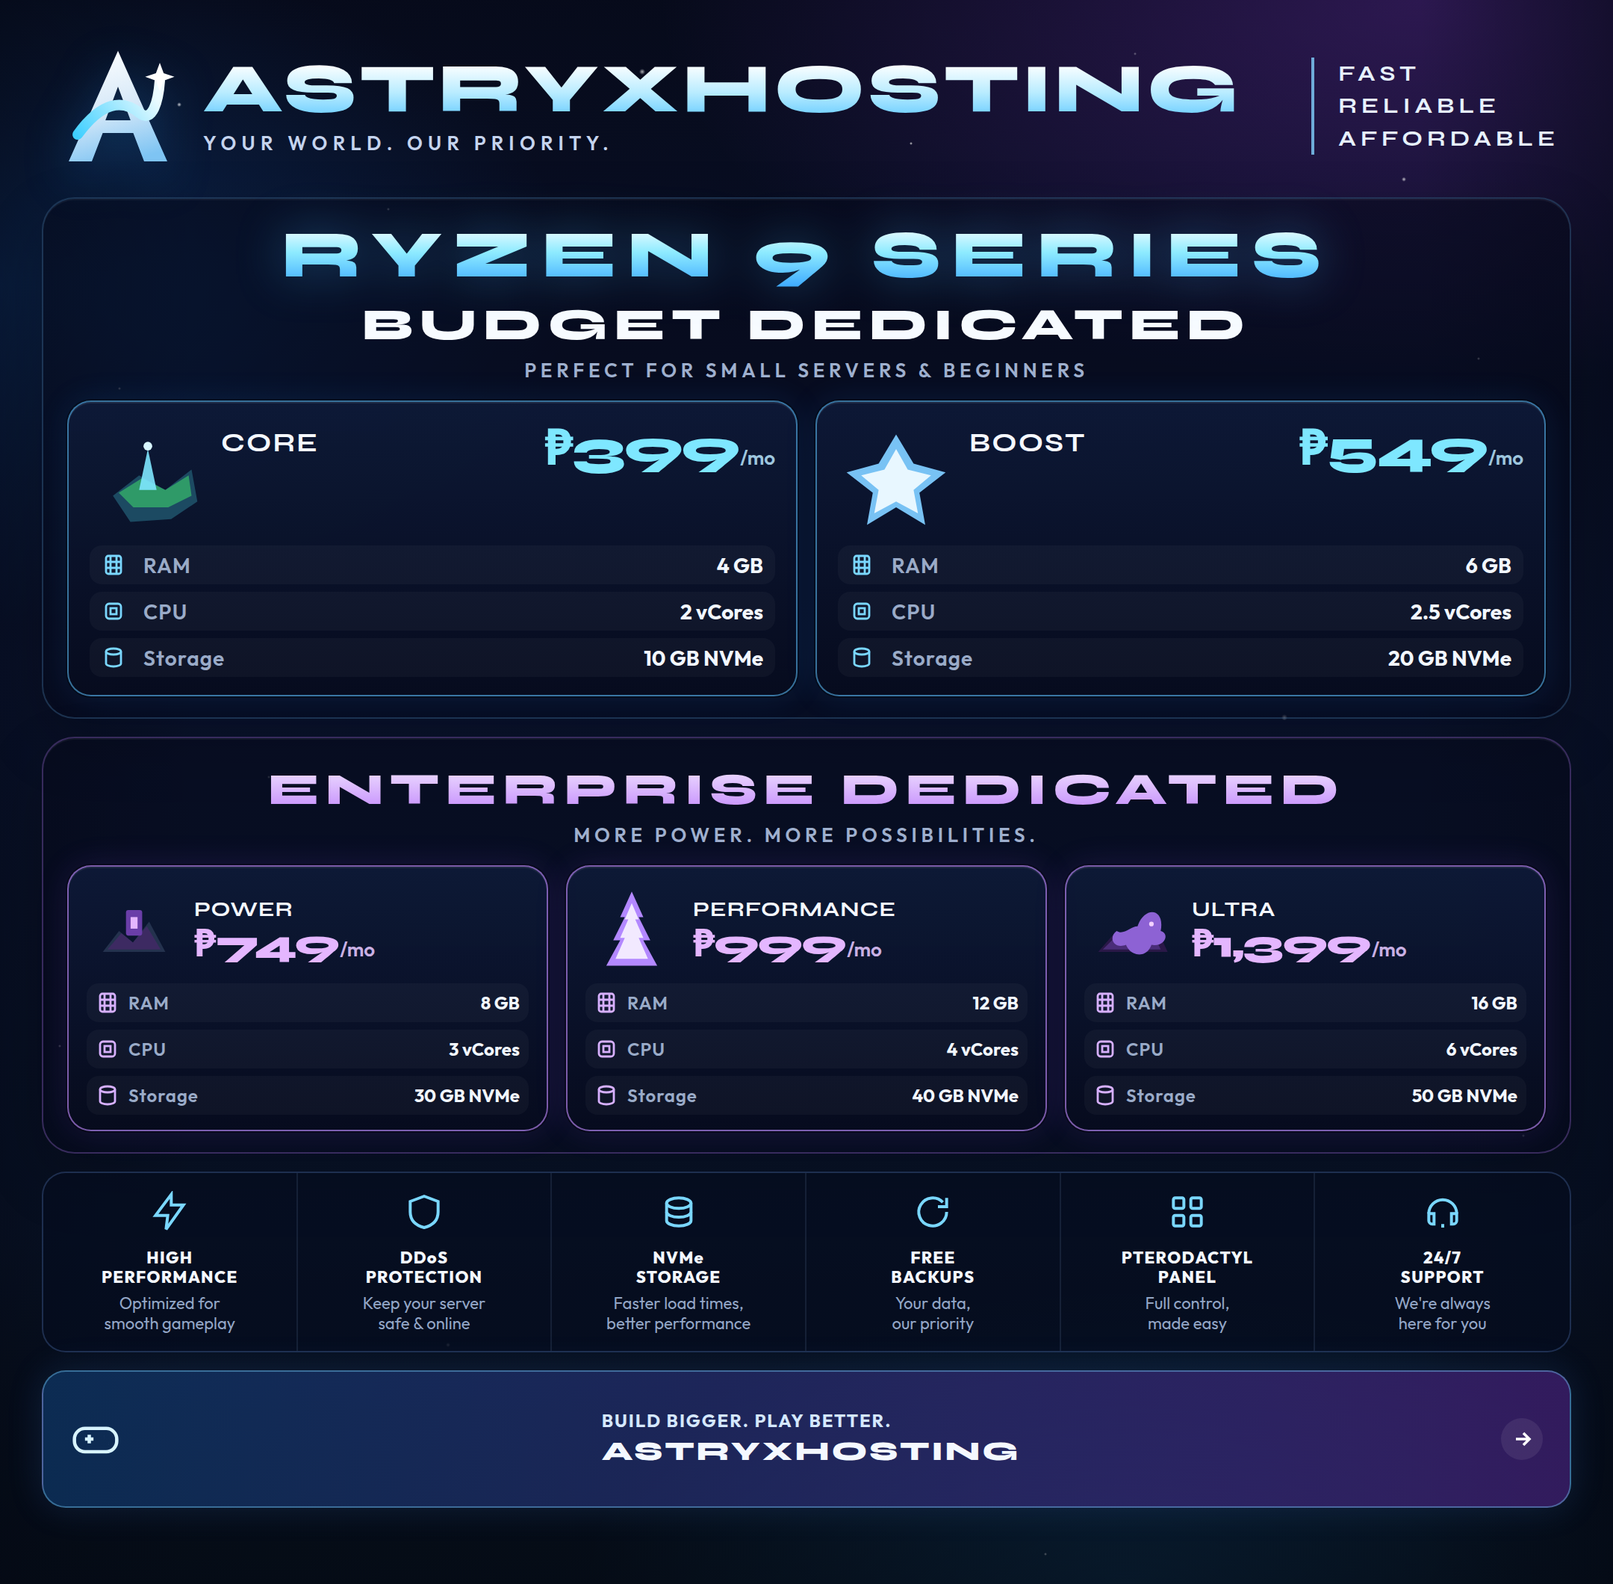
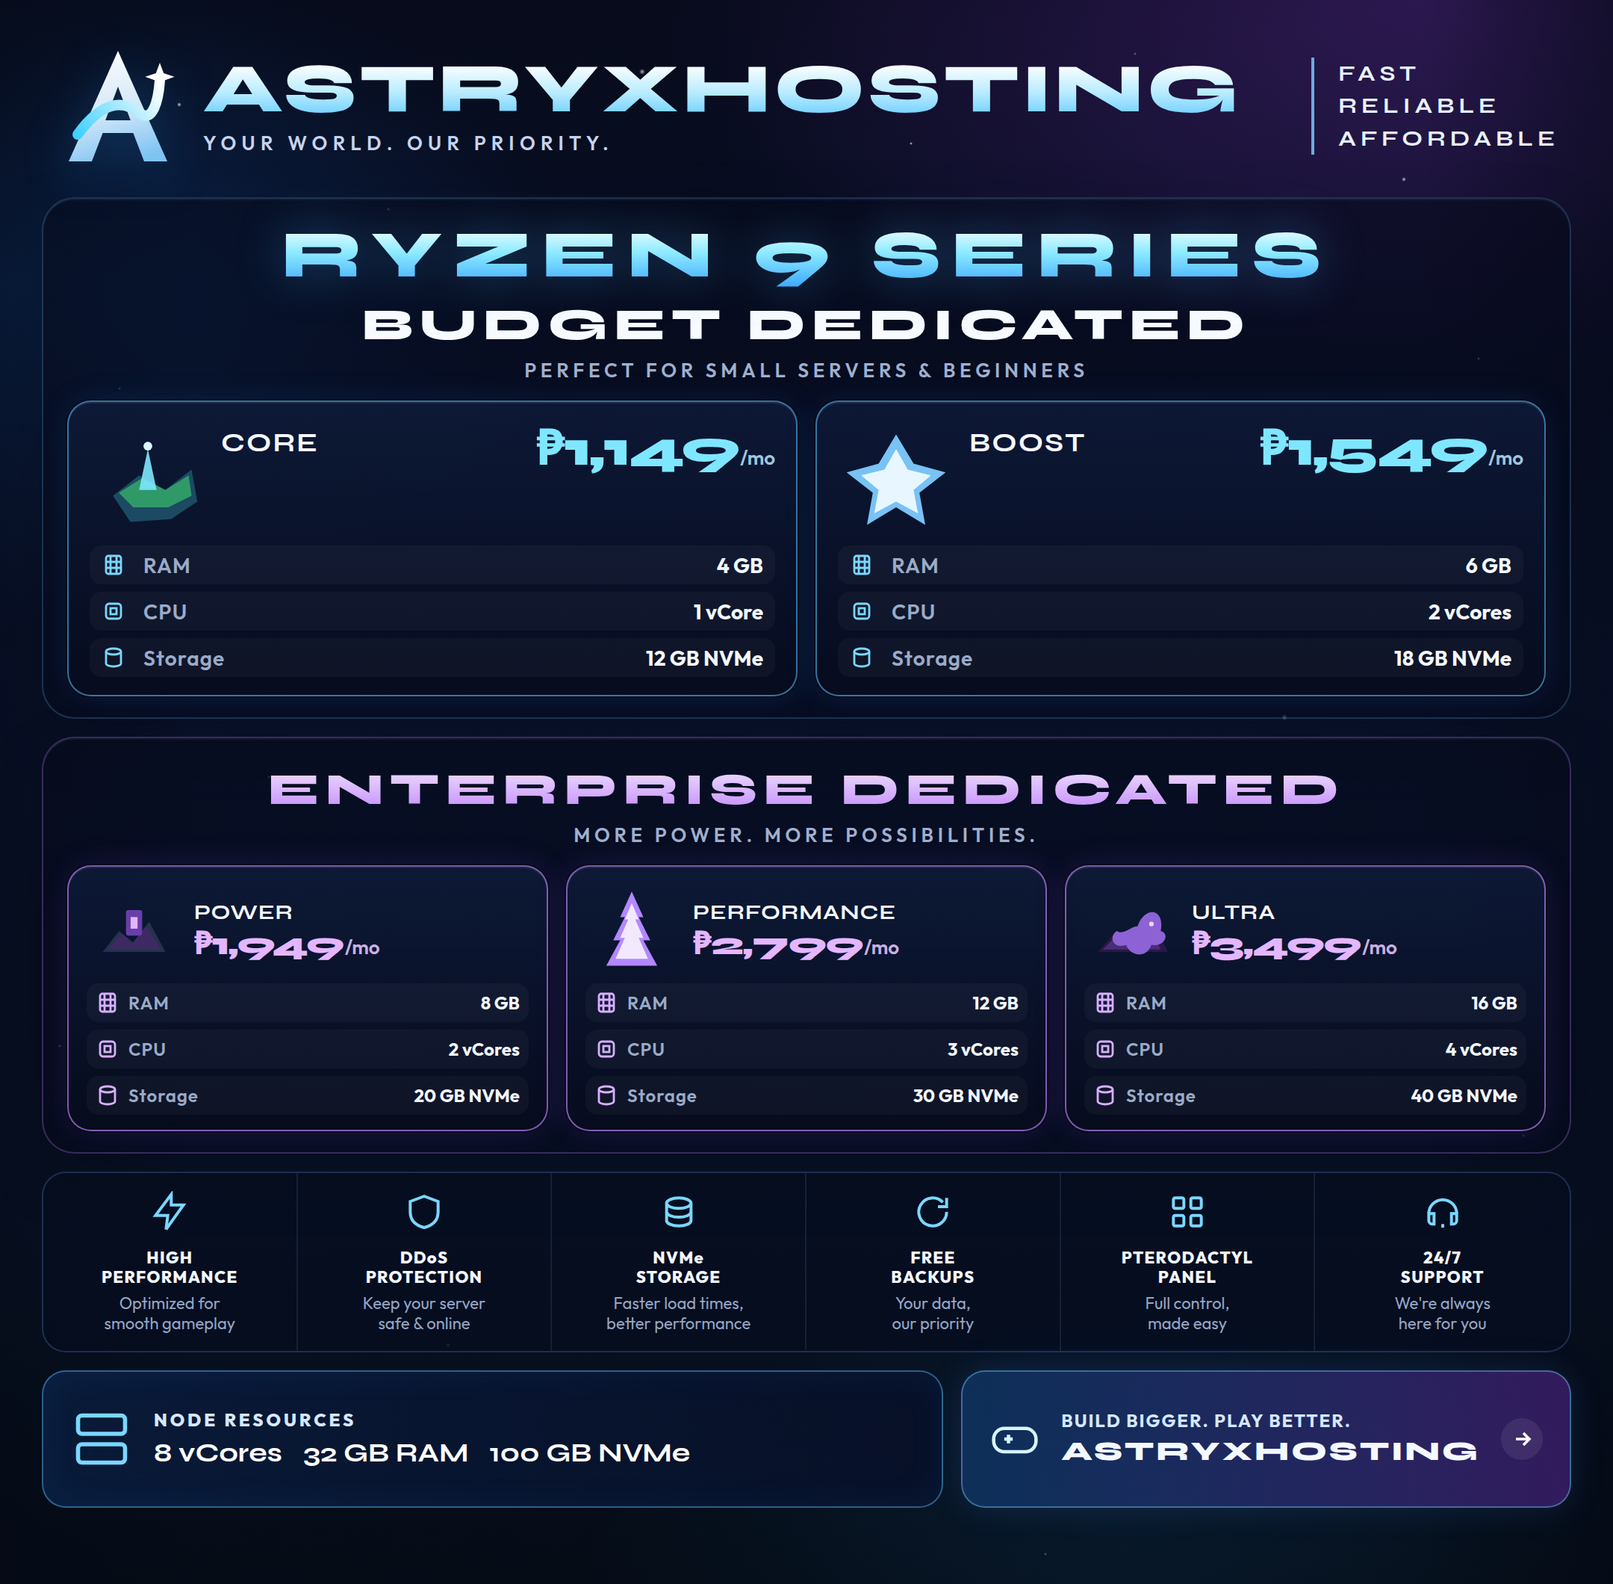
Reprice Xeon and Ryzen plans so a full node pays a salary.
Specs now fit each machine, and monthly prices cover the VDS cost with profit left over once most of the RAM is sold.

diff --git a/posters/ryzen.html b/posters/ryzen.html
@@ -63,12 +63,12 @@
             </svg>
             <div class="card-top">
               <div class="plan-name">CORE</div>
-              <div class="price">₱399<span class="per">/mo</span></div>
+              <div class="price">₱1,149<span class="per">/mo</span></div>
             </div>
             <div class="specs">
               <div class="spec"><svg viewBox="0 0 16 16" fill="none" stroke="#7ad7ff" stroke-width="1.4"><rect x="3" y="2" width="10" height="12" rx="1.5"/><path d="M6 2v12M10 2v12M3 6h10M3 10h10"/></svg><span class="k">RAM</span><span class="v">4 GB</span></div>
-              <div class="spec"><svg viewBox="0 0 16 16" fill="none" stroke="#7ad7ff" stroke-width="1.4"><rect x="3" y="3" width="10" height="10" rx="2"/><rect x="6" y="6" width="4" height="4"/></svg><span class="k">CPU</span><span class="v">2 vCores</span></div>
-              <div class="spec"><svg viewBox="0 0 16 16" fill="none" stroke="#7ad7ff" stroke-width="1.4"><ellipse cx="8" cy="4" rx="5" ry="2"/><path d="M3 4v8c0 1.1 2.2 2 5 2s5-.9 5-2V4"/></svg><span class="k">Storage</span><span class="v">10 GB NVMe</span></div>
+              <div class="spec"><svg viewBox="0 0 16 16" fill="none" stroke="#7ad7ff" stroke-width="1.4"><rect x="3" y="3" width="10" height="10" rx="2"/><rect x="6" y="6" width="4" height="4"/></svg><span class="k">CPU</span><span class="v">1 vCore</span></div>
+              <div class="spec"><svg viewBox="0 0 16 16" fill="none" stroke="#7ad7ff" stroke-width="1.4"><ellipse cx="8" cy="4" rx="5" ry="2"/><path d="M3 4v8c0 1.1 2.2 2 5 2s5-.9 5-2V4"/></svg><span class="k">Storage</span><span class="v">12 GB NVMe</span></div>
             </div>
           </article>
           <article class="card">
@@ -78,12 +78,12 @@
             </svg>
             <div class="card-top">
               <div class="plan-name">BOOST</div>
-              <div class="price">₱549<span class="per">/mo</span></div>
+              <div class="price">₱1,549<span class="per">/mo</span></div>
             </div>
             <div class="specs">
               <div class="spec"><svg viewBox="0 0 16 16" fill="none" stroke="#7ad7ff" stroke-width="1.4"><rect x="3" y="2" width="10" height="12" rx="1.5"/><path d="M6 2v12M10 2v12M3 6h10M3 10h10"/></svg><span class="k">RAM</span><span class="v">6 GB</span></div>
-              <div class="spec"><svg viewBox="0 0 16 16" fill="none" stroke="#7ad7ff" stroke-width="1.4"><rect x="3" y="3" width="10" height="10" rx="2"/><rect x="6" y="6" width="4" height="4"/></svg><span class="k">CPU</span><span class="v">2.5 vCores</span></div>
-              <div class="spec"><svg viewBox="0 0 16 16" fill="none" stroke="#7ad7ff" stroke-width="1.4"><ellipse cx="8" cy="4" rx="5" ry="2"/><path d="M3 4v8c0 1.1 2.2 2 5 2s5-.9 5-2V4"/></svg><span class="k">Storage</span><span class="v">20 GB NVMe</span></div>
+              <div class="spec"><svg viewBox="0 0 16 16" fill="none" stroke="#7ad7ff" stroke-width="1.4"><rect x="3" y="3" width="10" height="10" rx="2"/><rect x="6" y="6" width="4" height="4"/></svg><span class="k">CPU</span><span class="v">2 vCores</span></div>
+              <div class="spec"><svg viewBox="0 0 16 16" fill="none" stroke="#7ad7ff" stroke-width="1.4"><ellipse cx="8" cy="4" rx="5" ry="2"/><path d="M3 4v8c0 1.1 2.2 2 5 2s5-.9 5-2V4"/></svg><span class="k">Storage</span><span class="v">18 GB NVMe</span></div>
             </div>
           </article>
         </div>
@@ -102,12 +102,12 @@
             </svg>
             <div class="card-top">
               <div class="plan-name">POWER</div>
-              <div class="price">₱749<span class="per">/mo</span></div>
+              <div class="price">₱1,949<span class="per">/mo</span></div>
             </div>
             <div class="specs">
               <div class="spec"><svg viewBox="0 0 16 16" fill="none" stroke="#d7b0ff" stroke-width="1.4"><rect x="3" y="2" width="10" height="12" rx="1.5"/><path d="M6 2v12M10 2v12M3 6h10M3 10h10"/></svg><span class="k">RAM</span><span class="v">8 GB</span></div>
-              <div class="spec"><svg viewBox="0 0 16 16" fill="none" stroke="#d7b0ff" stroke-width="1.4"><rect x="3" y="3" width="10" height="10" rx="2"/><rect x="6" y="6" width="4" height="4"/></svg><span class="k">CPU</span><span class="v">3 vCores</span></div>
-              <div class="spec"><svg viewBox="0 0 16 16" fill="none" stroke="#d7b0ff" stroke-width="1.4"><ellipse cx="8" cy="4" rx="5" ry="2"/><path d="M3 4v8c0 1.1 2.2 2 5 2s5-.9 5-2V4"/></svg><span class="k">Storage</span><span class="v">30 GB NVMe</span></div>
+              <div class="spec"><svg viewBox="0 0 16 16" fill="none" stroke="#d7b0ff" stroke-width="1.4"><rect x="3" y="3" width="10" height="10" rx="2"/><rect x="6" y="6" width="4" height="4"/></svg><span class="k">CPU</span><span class="v">2 vCores</span></div>
+              <div class="spec"><svg viewBox="0 0 16 16" fill="none" stroke="#d7b0ff" stroke-width="1.4"><ellipse cx="8" cy="4" rx="5" ry="2"/><path d="M3 4v8c0 1.1 2.2 2 5 2s5-.9 5-2V4"/></svg><span class="k">Storage</span><span class="v">20 GB NVMe</span></div>
             </div>
           </article>
           <article class="card purple">
@@ -117,12 +117,12 @@
             </svg>
             <div class="card-top">
               <div class="plan-name">PERFORMANCE</div>
-              <div class="price">₱999<span class="per">/mo</span></div>
+              <div class="price">₱2,799<span class="per">/mo</span></div>
             </div>
             <div class="specs">
               <div class="spec"><svg viewBox="0 0 16 16" fill="none" stroke="#d7b0ff" stroke-width="1.4"><rect x="3" y="2" width="10" height="12" rx="1.5"/><path d="M6 2v12M10 2v12M3 6h10M3 10h10"/></svg><span class="k">RAM</span><span class="v">12 GB</span></div>
-              <div class="spec"><svg viewBox="0 0 16 16" fill="none" stroke="#d7b0ff" stroke-width="1.4"><rect x="3" y="3" width="10" height="10" rx="2"/><rect x="6" y="6" width="4" height="4"/></svg><span class="k">CPU</span><span class="v">4 vCores</span></div>
-              <div class="spec"><svg viewBox="0 0 16 16" fill="none" stroke="#d7b0ff" stroke-width="1.4"><ellipse cx="8" cy="4" rx="5" ry="2"/><path d="M3 4v8c0 1.1 2.2 2 5 2s5-.9 5-2V4"/></svg><span class="k">Storage</span><span class="v">40 GB NVMe</span></div>
+              <div class="spec"><svg viewBox="0 0 16 16" fill="none" stroke="#d7b0ff" stroke-width="1.4"><rect x="3" y="3" width="10" height="10" rx="2"/><rect x="6" y="6" width="4" height="4"/></svg><span class="k">CPU</span><span class="v">3 vCores</span></div>
+              <div class="spec"><svg viewBox="0 0 16 16" fill="none" stroke="#d7b0ff" stroke-width="1.4"><ellipse cx="8" cy="4" rx="5" ry="2"/><path d="M3 4v8c0 1.1 2.2 2 5 2s5-.9 5-2V4"/></svg><span class="k">Storage</span><span class="v">30 GB NVMe</span></div>
             </div>
           </article>
           <article class="card purple">
@@ -134,12 +134,12 @@
             </svg>
             <div class="card-top">
               <div class="plan-name">ULTRA</div>
-              <div class="price">₱1,399<span class="per">/mo</span></div>
+              <div class="price">₱3,499<span class="per">/mo</span></div>
             </div>
             <div class="specs">
               <div class="spec"><svg viewBox="0 0 16 16" fill="none" stroke="#d7b0ff" stroke-width="1.4"><rect x="3" y="2" width="10" height="12" rx="1.5"/><path d="M6 2v12M10 2v12M3 6h10M3 10h10"/></svg><span class="k">RAM</span><span class="v">16 GB</span></div>
-              <div class="spec"><svg viewBox="0 0 16 16" fill="none" stroke="#d7b0ff" stroke-width="1.4"><rect x="3" y="3" width="10" height="10" rx="2"/><rect x="6" y="6" width="4" height="4"/></svg><span class="k">CPU</span><span class="v">6 vCores</span></div>
-              <div class="spec"><svg viewBox="0 0 16 16" fill="none" stroke="#d7b0ff" stroke-width="1.4"><ellipse cx="8" cy="4" rx="5" ry="2"/><path d="M3 4v8c0 1.1 2.2 2 5 2s5-.9 5-2V4"/></svg><span class="k">Storage</span><span class="v">50 GB NVMe</span></div>
+              <div class="spec"><svg viewBox="0 0 16 16" fill="none" stroke="#d7b0ff" stroke-width="1.4"><rect x="3" y="3" width="10" height="10" rx="2"/><rect x="6" y="6" width="4" height="4"/></svg><span class="k">CPU</span><span class="v">4 vCores</span></div>
+              <div class="spec"><svg viewBox="0 0 16 16" fill="none" stroke="#d7b0ff" stroke-width="1.4"><ellipse cx="8" cy="4" rx="5" ry="2"/><path d="M3 4v8c0 1.1 2.2 2 5 2s5-.9 5-2V4"/></svg><span class="k">Storage</span><span class="v">40 GB NVMe</span></div>
             </div>
           </article>
         </div>
@@ -178,7 +178,14 @@
         </div>
       </section>
 
-      <footer class="footer solo">
+      <footer class="footer">
+        <div class="node">
+          <svg class="server" viewBox="0 0 24 24" fill="none" stroke="currentColor" stroke-width="1.6"><rect x="3" y="3" width="18" height="7" rx="1.5"/><rect x="3" y="14" width="18" height="7" rx="1.5"/><path d="M7 6.5h.01M7 17.5h.01"/></svg>
+          <div>
+            <div class="label">NODE RESOURCES</div>
+            <div class="stats"><span>8 vCores</span><span>32 GB RAM</span><span>100 GB NVMe</span></div>
+          </div>
+        </div>
         <div class="cta">
           <svg class="pad" viewBox="0 0 24 24" fill="none" stroke="currentColor" stroke-width="1.6"><rect x="2" y="7" width="20" height="11" rx="5"/><path d="M7 12h4M9 10v4M16 11h.01M18 14h.01"/></svg>
           <div class="copy">

diff --git a/posters/xeon.html b/posters/xeon.html
@@ -75,12 +75,12 @@
             </svg>
             <div class="card-top">
               <div class="plan-name">PIG<br />PLAN</div>
-              <div class="price">₱249<span class="per">/mo</span></div>
+              <div class="price">₱899<span class="per">/mo</span></div>
             </div>
             <div class="specs">
               <div class="spec"><svg viewBox="0 0 16 16" fill="none" stroke="#7ad7ff" stroke-width="1.4"><rect x="3" y="2" width="10" height="12" rx="1.5"/><path d="M6 2v12M10 2v12M3 6h10M3 10h10"/></svg><span class="k">RAM</span><span class="v">4 GB</span></div>
-              <div class="spec"><svg viewBox="0 0 16 16" fill="none" stroke="#7ad7ff" stroke-width="1.4"><rect x="3" y="3" width="10" height="10" rx="2"/><rect x="6" y="6" width="4" height="4"/></svg><span class="k">CPU</span><span class="v">2 vCores</span></div>
-              <div class="spec"><svg viewBox="0 0 16 16" fill="none" stroke="#7ad7ff" stroke-width="1.4"><ellipse cx="8" cy="4" rx="5" ry="2"/><path d="M3 4v8c0 1.1 2.2 2 5 2s5-.9 5-2V4"/></svg><span class="k">Storage</span><span class="v">10 GB NVMe</span></div>
+              <div class="spec"><svg viewBox="0 0 16 16" fill="none" stroke="#7ad7ff" stroke-width="1.4"><rect x="3" y="3" width="10" height="10" rx="2"/><rect x="6" y="6" width="4" height="4"/></svg><span class="k">CPU</span><span class="v">1 vCore</span></div>
+              <div class="spec"><svg viewBox="0 0 16 16" fill="none" stroke="#7ad7ff" stroke-width="1.4"><ellipse cx="8" cy="4" rx="5" ry="2"/><path d="M3 4v8c0 1.1 2.2 2 5 2s5-.9 5-2V4"/></svg><span class="k">Storage</span><span class="v">15 GB NVMe</span></div>
             </div>
           </article>
           <article class="card">
@@ -98,12 +98,12 @@
             </svg>
             <div class="card-top">
               <div class="plan-name">WOLF<br />PLAN</div>
-              <div class="price">₱349<span class="per">/mo</span></div>
+              <div class="price">₱1,249<span class="per">/mo</span></div>
             </div>
             <div class="specs">
               <div class="spec"><svg viewBox="0 0 16 16" fill="none" stroke="#7ad7ff" stroke-width="1.4"><rect x="3" y="2" width="10" height="12" rx="1.5"/><path d="M6 2v12M10 2v12M3 6h10M3 10h10"/></svg><span class="k">RAM</span><span class="v">6 GB</span></div>
-              <div class="spec"><svg viewBox="0 0 16 16" fill="none" stroke="#7ad7ff" stroke-width="1.4"><rect x="3" y="3" width="10" height="10" rx="2"/><rect x="6" y="6" width="4" height="4"/></svg><span class="k">CPU</span><span class="v">2.5 vCores</span></div>
-              <div class="spec"><svg viewBox="0 0 16 16" fill="none" stroke="#7ad7ff" stroke-width="1.4"><ellipse cx="8" cy="4" rx="5" ry="2"/><path d="M3 4v8c0 1.1 2.2 2 5 2s5-.9 5-2V4"/></svg><span class="k">Storage</span><span class="v">20 GB NVMe</span></div>
+              <div class="spec"><svg viewBox="0 0 16 16" fill="none" stroke="#7ad7ff" stroke-width="1.4"><rect x="3" y="3" width="10" height="10" rx="2"/><rect x="6" y="6" width="4" height="4"/></svg><span class="k">CPU</span><span class="v">2 vCores</span></div>
+              <div class="spec"><svg viewBox="0 0 16 16" fill="none" stroke="#7ad7ff" stroke-width="1.4"><ellipse cx="8" cy="4" rx="5" ry="2"/><path d="M3 4v8c0 1.1 2.2 2 5 2s5-.9 5-2V4"/></svg><span class="k">Storage</span><span class="v">25 GB NVMe</span></div>
             </div>
           </article>
         </div>
@@ -124,11 +124,11 @@
             </svg>
             <div class="card-top">
               <div class="plan-name">ZOMBIE<br />PLAN</div>
-              <div class="price">₱549<span class="per">/mo</span></div>
+              <div class="price">₱1,549<span class="per">/mo</span></div>
             </div>
             <div class="specs">
               <div class="spec"><svg viewBox="0 0 16 16" fill="none" stroke="#d7b0ff" stroke-width="1.4"><rect x="3" y="2" width="10" height="12" rx="1.5"/><path d="M6 2v12M10 2v12M3 6h10M3 10h10"/></svg><span class="k">RAM</span><span class="v">8 GB</span></div>
-              <div class="spec"><svg viewBox="0 0 16 16" fill="none" stroke="#d7b0ff" stroke-width="1.4"><rect x="3" y="3" width="10" height="10" rx="2"/><rect x="6" y="6" width="4" height="4"/></svg><span class="k">CPU</span><span class="v">3 vCores</span></div>
+              <div class="spec"><svg viewBox="0 0 16 16" fill="none" stroke="#d7b0ff" stroke-width="1.4"><rect x="3" y="3" width="10" height="10" rx="2"/><rect x="6" y="6" width="4" height="4"/></svg><span class="k">CPU</span><span class="v">2 vCores</span></div>
               <div class="spec"><svg viewBox="0 0 16 16" fill="none" stroke="#d7b0ff" stroke-width="1.4"><ellipse cx="8" cy="4" rx="5" ry="2"/><path d="M3 4v8c0 1.1 2.2 2 5 2s5-.9 5-2V4"/></svg><span class="k">Storage</span><span class="v">30 GB NVMe</span></div>
             </div>
           </article>
@@ -143,12 +143,12 @@
             </svg>
             <div class="card-top">
               <div class="plan-name">SKELETON<br />PLAN</div>
-              <div class="price">₱799<span class="per">/mo</span></div>
+              <div class="price">₱2,249<span class="per">/mo</span></div>
             </div>
             <div class="specs">
               <div class="spec"><svg viewBox="0 0 16 16" fill="none" stroke="#d7b0ff" stroke-width="1.4"><rect x="3" y="2" width="10" height="12" rx="1.5"/><path d="M6 2v12M10 2v12M3 6h10M3 10h10"/></svg><span class="k">RAM</span><span class="v">12 GB</span></div>
-              <div class="spec"><svg viewBox="0 0 16 16" fill="none" stroke="#d7b0ff" stroke-width="1.4"><rect x="3" y="3" width="10" height="10" rx="2"/><rect x="6" y="6" width="4" height="4"/></svg><span class="k">CPU</span><span class="v">4 vCores</span></div>
-              <div class="spec"><svg viewBox="0 0 16 16" fill="none" stroke="#d7b0ff" stroke-width="1.4"><ellipse cx="8" cy="4" rx="5" ry="2"/><path d="M3 4v8c0 1.1 2.2 2 5 2s5-.9 5-2V4"/></svg><span class="k">Storage</span><span class="v">40 GB NVMe</span></div>
+              <div class="spec"><svg viewBox="0 0 16 16" fill="none" stroke="#d7b0ff" stroke-width="1.4"><rect x="3" y="3" width="10" height="10" rx="2"/><rect x="6" y="6" width="4" height="4"/></svg><span class="k">CPU</span><span class="v">3 vCores</span></div>
+              <div class="spec"><svg viewBox="0 0 16 16" fill="none" stroke="#d7b0ff" stroke-width="1.4"><ellipse cx="8" cy="4" rx="5" ry="2"/><path d="M3 4v8c0 1.1 2.2 2 5 2s5-.9 5-2V4"/></svg><span class="k">Storage</span><span class="v">45 GB NVMe</span></div>
             </div>
           </article>
           <article class="card purple">
@@ -161,12 +161,12 @@
             </svg>
             <div class="card-top">
               <div class="plan-name">ENDER<br />DRAGON PLAN</div>
-              <div class="price">₱1,099<span class="per">/mo</span></div>
+              <div class="price">₱2,899<span class="per">/mo</span></div>
             </div>
             <div class="specs">
               <div class="spec"><svg viewBox="0 0 16 16" fill="none" stroke="#d7b0ff" stroke-width="1.4"><rect x="3" y="2" width="10" height="12" rx="1.5"/><path d="M6 2v12M10 2v12M3 6h10M3 10h10"/></svg><span class="k">RAM</span><span class="v">16 GB</span></div>
-              <div class="spec"><svg viewBox="0 0 16 16" fill="none" stroke="#d7b0ff" stroke-width="1.4"><rect x="3" y="3" width="10" height="10" rx="2"/><rect x="6" y="6" width="4" height="4"/></svg><span class="k">CPU</span><span class="v">6 vCores</span></div>
-              <div class="spec"><svg viewBox="0 0 16 16" fill="none" stroke="#d7b0ff" stroke-width="1.4"><ellipse cx="8" cy="4" rx="5" ry="2"/><path d="M3 4v8c0 1.1 2.2 2 5 2s5-.9 5-2V4"/></svg><span class="k">Storage</span><span class="v">50 GB NVMe</span></div>
+              <div class="spec"><svg viewBox="0 0 16 16" fill="none" stroke="#d7b0ff" stroke-width="1.4"><rect x="3" y="3" width="10" height="10" rx="2"/><rect x="6" y="6" width="4" height="4"/></svg><span class="k">CPU</span><span class="v">4 vCores</span></div>
+              <div class="spec"><svg viewBox="0 0 16 16" fill="none" stroke="#d7b0ff" stroke-width="1.4"><ellipse cx="8" cy="4" rx="5" ry="2"/><path d="M3 4v8c0 1.1 2.2 2 5 2s5-.9 5-2V4"/></svg><span class="k">Storage</span><span class="v">60 GB NVMe</span></div>
             </div>
           </article>
         </div>

diff --git a/posters/styles.css b/posters/styles.css
@@ -299,7 +299,7 @@ html, body {
 }
 
 .card.purple .price { color: #e4b6ff; }
-.cards.three .price { font-size: 26px; }
+.cards.three .price { font-size: 22px; }
 
 .per {
   font-family: Outfit, "Noto Sans", sans-serif;

diff --git a/README.md b/README.md
@@ -2,8 +2,8 @@
 
 Price posters for Astryx Hosting dedicated game servers.
 
-- **Intel Xeon Gold Series** — Pig, Wolf, Zombie, Skeleton, and Ender Dragon plans
-- **Ryzen 9 Series** — Core, Boost, Power, Performance, and Ultra plans
+- **Intel Xeon Gold Series** — Pig ₱899, Wolf ₱1,249, Zombie ₱1,549, Skeleton ₱2,249, Ender Dragon ₱2,899
+- **Ryzen 9 Series** — Core ₱1,149, Boost ₱1,549, Power ₱1,949, Performance ₱2,799, Ultra ₱3,499
 
 Exported images:
 
